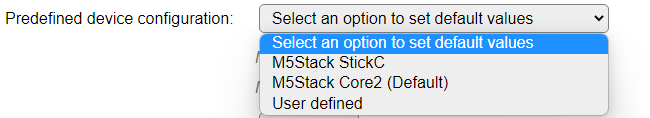
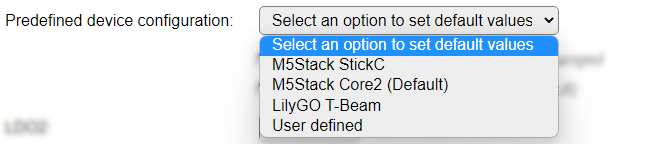
[P137] Add config for LilyGO T-Beam, improved disabled-port UI, update documentation

diff --git a/src/src/PluginStructs/P137_data_struct.cpp b/src/src/PluginStructs/P137_data_struct.cpp
@@ -65,6 +65,14 @@ void P137_CheckPredefinedParameters(struct EventStruct *event) {
         P137_SET_GPIO_FLAGS(4, static_cast<uint8_t>(P137_GPIOBootState_e::Output_high));
         break;
       }
+      case P137_PredefinedDevices_e::LilyGO_TBeam: // LilyGO T-Beam
+      {
+        P137_REG_DCDC2_LDO2     = (P137_valueToSetting(-1, P137_CONST_MAX_DCDC2) << 16) | P137_valueToSetting(3300, P137_CONST_MAX_LDO);
+        P137_REG_DCDC3_LDO3     = (P137_valueToSetting(3300, P137_CONST_MAX_DCDC) << 16) | P137_valueToSetting(3300, P137_CONST_MAX_LDO);
+        P137_REG_LDOIO          =  P137_valueToSetting(3300, P137_CONST_MAX_LDOIO);
+        P137_CONFIG_DISABLEBITS = 0b1111111000; // NC pins disabled
+        break;
+      }
       case P137_PredefinedDevices_e::UserDefined: // User defined
       {
         P137_REG_DCDC2_LDO2     = (P137_valueToSetting(-1, P137_CONST_MAX_DCDC2) << 16) | P137_valueToSetting(3300, P137_CONST_MAX_LDO);
@@ -128,6 +136,7 @@ const __FlashStringHelper* toString(const P137_PredefinedDevices_e device) {
     case P137_PredefinedDevices_e::Unselected: return F("Select an option to set default values");
     case P137_PredefinedDevices_e::M5Stack_StickC: return F("M5Stack StickC");
     case P137_PredefinedDevices_e::M5Stack_Core2: return F("M5Stack Core2 (Default)");
+    case P137_PredefinedDevices_e::LilyGO_TBeam: return F("LilyGO T-Beam");
     case P137_PredefinedDevices_e::UserDefined: return F("User defined");
   }
   return F("*Undefined*");
@@ -140,20 +149,20 @@ P137_data_struct::P137_data_struct(struct EventStruct *event) {
   axp192 = new (std::nothrow) I2C_AXP192();                // Default address and I2C Wire object
 
   if (isInitialized()) {                                   // Functions based on:
-    I2C_AXP192_InitDef initDef = {                         // M5Stack StickC / M5Stack Core2
+    I2C_AXP192_InitDef initDef = {                         // M5Stack StickC / M5Stack Core2 / LilyGO T-Beam
       .EXTEN  = true,                                      // Enable ESP Power
       .BACKUP = true,                                      // Enable RTC power
-      .DCDC1  = 3300,                                      // ESP Power      / ESP Power (Fixed)
-      .DCDC2  = P137_GET_CONFIG_DCDC2,                     // Unused         / Unused
-      .DCDC3  = P137_GET_CONFIG_DCDC3,                     // Unused         / LCD Backlight
-      .LDO2   = P137_GET_CONFIG_LDO2,                      // Backlight power (3000 mV) / Periferal VDD
-      .LDO3   = P137_GET_CONFIG_LDO3,                      // TFT Power (3000 mV)       / Vibration motor
+      .DCDC1  = 3300,                                      // ESP Power      / ESP Power (Fixed)  / OLed
+      .DCDC2  = P137_GET_CONFIG_DCDC2,                     // Unused         / Unused             / Unused
+      .DCDC3  = P137_GET_CONFIG_DCDC3,                     // Unused         / LCD Backlight      / ESP Power
+      .LDO2   = P137_GET_CONFIG_LDO2,                      // Backlight power (3000 mV) / Periferal VDD   / LoRa
+      .LDO3   = P137_GET_CONFIG_LDO3,                      // TFT Power (3000 mV)       / Vibration motor / GPS
       .LDOIO  = P137_GET_CONFIG_LDOIO,                     // LDOIO voltage (2800 mV)
-      .GPIO0  = static_cast<int>(P137_GET_FLAG_GPIO0 - 1), // Microphone power / Bus pwr enable
-      .GPIO1  = static_cast<int>(P137_GET_FLAG_GPIO1 - 1), // Unused / Sys Led (green)
-      .GPIO2  = static_cast<int>(P137_GET_FLAG_GPIO2 - 1), // Unused / Speaker enable
-      .GPIO3  = static_cast<int>(P137_GET_FLAG_GPIO3 - 1), // Unused / Unused
-      .GPIO4  = static_cast<int>(P137_GET_FLAG_GPIO4 - 1), // Unused / TFT Reset
+      .GPIO0  = static_cast<int>(P137_GET_FLAG_GPIO0 - 1), // Microphone power / Bus pwr enable / Unused
+      .GPIO1  = static_cast<int>(P137_GET_FLAG_GPIO1 - 1), // Unused / Sys Led (green)          / Unused
+      .GPIO2  = static_cast<int>(P137_GET_FLAG_GPIO2 - 1), // Unused / Speaker enable           / Unused
+      .GPIO3  = static_cast<int>(P137_GET_FLAG_GPIO3 - 1), // Unused / Unused                   / Unused
+      .GPIO4  = static_cast<int>(P137_GET_FLAG_GPIO4 - 1), // Unused / TFT Reset                / Unused
     };
     ldo2_value  = P137_GET_CONFIG_LDO2;
     ldo3_value  = P137_GET_CONFIG_LDO3;

diff --git a/src/src/PluginStructs/P137_data_struct.h b/src/src/PluginStructs/P137_data_struct.h
@@ -81,6 +81,7 @@ enum class P137_PredefinedDevices_e : uint8_t {
   Unselected     = 0u,
   M5Stack_StickC = 1u,
   M5Stack_Core2  = 2u,
+  LilyGO_TBeam   = 3u,
   UserDefined    = 99u // Keep as last
 };
 

diff --git a/docs/source/Plugin/P137.rst b/docs/source/Plugin/P137.rst
@@ -63,6 +63,8 @@ Hardware outputs AXP192
 
 * *M5Stack Core2 (Default)* Settings for the M5Stack Core and Core2, and derived special models, hardware. This is the default predefined configuration.
 
+* *LilyGO T-Beam* Settings for the LilyGO T-Beam series of GPS/LoRa devices with optional OLed display.
+
 * *User defined* To be able to configure are available output pins the User defined option is available, f.e. when using a custom designed, or not yet supported, hardware setup.
 
 When available, new predefined devices will be added. The User defined option will stay the last option.
